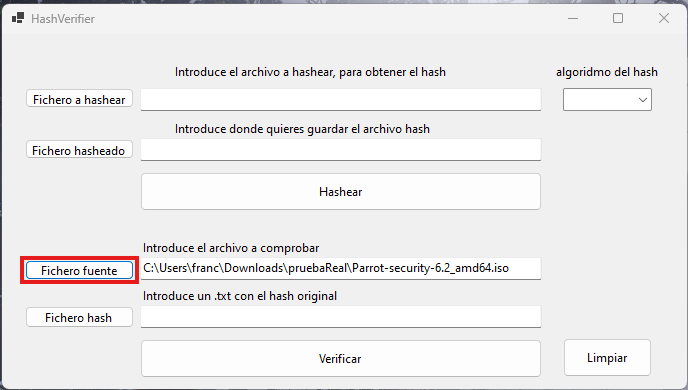
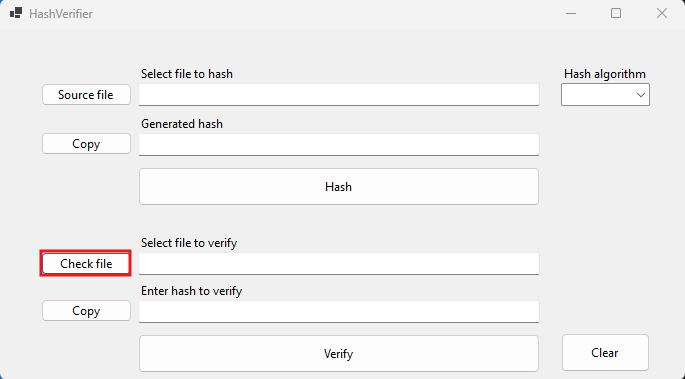
Readme actualizados

diff --git a/README.md b/README.md
@@ -1,15 +1,16 @@
-[🇪🇸 Español](README-ESP.md) | [🇬🇧 English](README.md)
+[🇪🇸 Español](docs/README-ESP.md) | [🇬🇧 English](README.md)
 # 🛠 HashVerifier
-HashVerifier is a Windows Forms application in C# that allows you to calculate and verify file hashes using various hash algorithms, with an intuitive and functional interface. It is ideal for verifying the integrity of files and ensuring that they have not been altered.
-![Main View of HashVerifier](img/imgPrincipal.png)
+HashVerifier is a Windows Forms application in C# that allows you to calculate and verify file hashes using several hash algorithms, with an intuitive and functional interface. It is ideal for verifying file integrity and ensuring they have not been altered.
+
+![HashVerifier Main View](img/imgPrincipal.png)
 
 ## 🚀 Description
-HashVerifier allows you to calculate and verify file hashes using several algorithms: **MD5, SHA-1, SHA-224, SHA-256, SHA-384**, and **SHA-512**.
+HashVerifier allows you to calculate and verify file hashes using several algorithms: **MD5, SHA-1, SHA-224, SHA-256, SHA-384** and **SHA-512**.
 
 ## ✨ Features
-- 📂 Select a file to calculate its hash.
-- 🔍 Choose the hash algorithm.
-- 💾 Save the calculated hash to a file.
+- 📂 File selection to calculate its hash.
+- 🔍 Selection of the hash algorithm.
+- 💾 Save the calculated hash into a file.
 - ✅ Verify if the calculated hash matches a given hash.
 - 👤 Simple and easy-to-use graphical user interface.
 
@@ -17,42 +18,67 @@ HashVerifier allows you to calculate and verify file hashes using several algori
 - .NET Framework 4.7.2 or higher
 
 ## ⚙ Installation
-1. Clone the repository: `git clone https://github.com/QUIENTRAEHIEL0/HashVerifier.git`
-2. Navigate to the project directory: `cd HashVerifier`
+1. Clone the repository:
+   ```bash
+   git clone https://github.com/QUIENTRAEHIEL0/HashVerifier.git
+   ```
+2. Navigate to the project directory: 
+   ```bash
+   cd HashVerifier
+   ```
 
 ### Build in Visual Studio
 1. Open the project file (`HashVerifier.sln`) in Visual Studio.
 2. Build the application by selecting **Build > Build Solution**.
-3. Run the application from the Visual Studio environment or through the generated `.exe` file in the `bin` folder.
+3. Run the application from the Visual Studio environment or using the `.exe` file generated in the `bin` folder.
 
 ### Build from the command line (using .NET CLI)
-1. Ensure you have the .NET SDK installed. You can verify it with: `dotnet --version`
-2. In the project directory, build the application with the following command: `dotnet build`
-3. To run the application after building it, use: `dotnet run --project HashVerifier` Or, if you prefer to run it from the compiled file, navigate to the `bin/Debug/net472` (or `Release` if you used the release build option) folder and run the corresponding `.exe` file.
+1. Make sure you have the .NET SDK installed. You can check with: 
+   ```bash
+   dotnet --version
+   ```
+2. In the project directory, build the application with the following command: 
+   ```bash
+   dotnet build
+   ```
+3. To run the application after building it, use: 
+   ```bash
+   dotnet run --project HashVerifier
+   ```
+   Or, if you prefer to run it from the compiled file, navigate to the folder `bin/Debug/net472` (or `Release` if you built it with the release option) and execute the corresponding `.exe` file.
 
-### 📋 Calculate a hash
-1. Select the file you want to hash using the **"File to Hash"** button.
-   ![Select File and Algorithm](img/imgExam1.png)
-2. Indicate the path where you want to save the hash using the **"Hash File"** button.
-   ![Select Hash File](img/imgExam2.png)
-3. Select the hash algorithm from the dropdown menu **"Hash Algorithm"**.
-   ![Select Hash Algorithm](img/imgAlgoritmo.png)
-4. Click on **"Hash"** to calculate the hash of the selected file.
-   ![Calculate Hash](img/imgCalcHash.png)
-5. The calculated hash is saved to the selected path.
+### 📋 Calculate a hash 
+1. Select the file you want to hash using the **"Source file"** button.
+![File and Algorithm Selection](img/imgExam1.png)
+
+2. Select the hash algorithm in the dropdown menu **"Hash algorithm"**.   
+![File and Algorithm Selection](img/imgAlgoritmo.png)
+   
+3. Click on **"Hash"** to calculate the hash of the selected file.
+![Hash Calculation](img/imgCalcHash.png)
+
+4. The calculated hash is displayed and copied to the clipboard.  
+![[imgHashCalc.png]]
 
 ### 📋 Verify a hash
-1. To verify a hash, select the source file (the file you want to calculate the hash for) using the **"Source File"** button.
-   ![Select Source File](img/imgFuente.png)
-2. To verify the hash, you must save the actual hash in a `.txt` file and indicate it using the **"Hash File"** button.
-   ![Select Hash File for Verification](img/imgHash.png)
-3. Select the hash algorithm from the dropdown menu **"Hash Algorithm"**.
-   ![Select Hash Algorithm for Verification](img/imgAlgoritmo2.png)
-4. To complete the verification, click on **"Verify,"** and a result will be shown in a popup window.
-   ![Hash Verification Result](img/imgHashVerifi.png)
+1. To verify a hash, select the source file (the file you want to calculate the hash from) with **"Check file"**.
+![Hash Verification](img/imgFuente.png) 
+
+2. To verify the hash, copy the hash into the `text box` (inside the red rectangle).
+![Hash Verification](img/imgHash.png) 
+
+3. Select the hash algorithm in the dropdown menu **"Hash algorithm"**.
+![File and Algorithm Selection](img/imgAlgoritmo2.png)
+
+4. To complete the verification, click on **"Verify"** and the result will be displayed in a pop-up window.
+![Hash Verification](img/imgHashVerifi.png)
+
+### 🗑 Clear
+- To clear the information, you can click the (`clear`) button.  
+![[imgClear.png]]
 
 ## 🤝 Contributing
-Contributions are welcome. If you wish to contribute, please follow these steps:
+Contributions are welcome. If you want to contribute, follow these steps:
 1. Fork the repository.
 2. Create a new branch (`git checkout -b feature/new-feature`).
 3. Make the necessary changes and commit (`git commit -am 'Add new feature'`).

diff --git a/docs/README-ESP.md b/docs/README-ESP.md
@@ -1,8 +1,8 @@
-[🇪🇸 Español](README-ESP.md) | [🇬🇧 English](README.md)
+[🇪🇸 Español](README-ESP.md) | [🇬🇧 English](../README.md)
 # 🛠 HashVerifier
 HashVerifier es una aplicación de Windows Forms en C# que permite calcular y verificar hashes de archivos utilizando varios algoritmos de hash, con una interfaz intuitiva y funcional. Es ideal para verificar la integridad de archivos y asegurarse de que no han sido alterados.
 
-![Vista Principal de HashVerifier](img/imgPrincipal.png)
+![Vista Principal de HashVerifier](../img/imgPrincipal.png)
 
 ## 🚀 Descripción
 HashVerifier permite calcular y verificar hashes de archivos utilizando varios algoritmos: **MD5, SHA-1, SHA-224, SHA-256, SHA-384** y **SHA-512**.
@@ -20,13 +20,13 @@ HashVerifier permite calcular y verificar hashes de archivos utilizando varios a
 ## ⚙ Instalación
 1. Clona el repositorio:
    ```bash
-   git clone https://github.com/FranciscoFdez05/HashVerifier.git
+   git clone https://github.com/QUIENTRAEHIEL0/HashVerifier.git
    ```
 3. Navega al directorio del proyecto: `cd HashVerifier`
 
 ### Compilación en Visual Studio
 1. Abre el archivo del proyecto (`HashVerifier.sln`) en Visual Studio.
-2. Compila la aplicación seleccionando **Compilar > Compilar Solución**.
+2. Compila la aplicación seleccionando **Build > Build Solution**.
 3. Ejecuta la aplicación desde el entorno de Visual Studio o mediante el archivo `.exe` generado en la carpeta `bin`.
 
 ### Compilación desde la línea de comandos (usando .NET CLI)
@@ -36,42 +36,34 @@ HashVerifier permite calcular y verificar hashes de archivos utilizando varios a
    O, si prefieres ejecutarla desde el archivo compilado, navega a la carpeta `bin/Debug/net472` (o `Release` si usaste la opción de compilación de release) y ejecuta el archivo `.exe` correspondiente.
 
 ### 📋 Calcular un hash 
-1. Selecciona el archivo que deseas hashear utilizando el botón **"Fichero a hashear"**.
+1. Selecciona el archivo que deseas hashear utilizando el botón **"Source file"**.
+![Selección de Archivo y Algoritmo](../img/imgExam1.png)
 
-   ![Selección de Archivo y Algoritmo](img/imgExam1.png)
-
-2. Indica la ruta donde quieres guardar el hash utiliza el botón **"Fichero hasheado"**.
-
-   ![Selección de Archivo y Algoritmo](img/imgExam2.png)
-
-3. Selecciona el algoritmo de hash en el menú desplegable **"algoritmo del hash"**.
+2. Selecciona el algoritmo de hash en el menú desplegable **"Hash algorithm"**.   
+![Selección de Archivo y Algoritmo](../img/imgAlgoritmo.png)
    
-   ![Selección de Archivo y Algoritmo](img/imgAlgoritmo.png)
-   
-4. Haz clic en **"Hashear"** para calcular el hash del archivo seleccionado.
+3. Haz clic en **"Hash"** para calcular el hash del archivo seleccionado.
+![Cálculo del Hash](../img/imgCalcHash.png)
 
-   ![Cálculo del Hash](img/imgCalcHash.png)
-
-5. El hash calculado se guarda en la ruta selecionada 
+4. El hash calculado se muestra y se copia en el portapapeles
+![[imgHashCalc.png]]
 
 ### 📋 Verificar un hash
-  
-1. Para verificar un hash, selecciona el fichero fuente (El fichero que desea calcualar el hash) **"Fichero fuente"**.
+1. Para verificar un hash, selecciona el fichero fuente (El fichero que desea calcular el hash) **"Check file"**.
+![Verificación de Hash](../img/imgFuente.png) 
 
-   ![Verificación de Hash](img/imgFuente.png) 
+2. Para verificar el hash, debes copiar el hash en el `text box` (dentro del rectangular rojo)
+![Verificación de Hash](../img/imgHash.png) 
 
-2. Para verificar el hash, debes guardar el hash real en un fichero.txt he indicarlo utilizando el botón **"Fichero hash"**.
+3. Selecciona el algoritmo del hash en el menú desplegable **"Hash algorithm"**.
+![Selección de Archivo y Algoritmo](../img/imgAlgoritmo2.png)
 
-   ![Verificación de Hash](img/imgHash.png) 
+4. Para terminar la verificación debes darle a **"Verify"** y te mostrara el resultado en una ventana emergente.
+![Verificación de Hash](../img/imgHashVerifi.png)
 
-3. Selecciona el algoritmo de hash en el menú desplegable **"algoritmo del hash"**.
-   
-   ![Selección de Archivo y Algoritmo](img/imgAlgoritmo2.png)
-
-4. Para terminar la verificacion debes darle a **"Verificar"** y te mostrara el resultado en una ventana emergente.
-
-   ![Verificación de Hash](img/imgHashVerifi.png)
-
+###  🗑 Limpiar
+- Para limpiar la information puedes pulsar el el botón (`clear`)
+![[imgClear.png]]
 ## 🤝 Contribuir
 Las contribuciones son bienvenidas. Si deseas contribuir, sigue estos pasos:
 1. Haz un fork del repositorio.
@@ -82,4 +74,4 @@ Las contribuciones son bienvenidas. Si deseas contribuir, sigue estos pasos:
 
 ---
 
-**Developed with ❤ by [Francisco](https://github.com/FARLOPITEC)**
+**Developed with ❤ by [Francisco](https://github.com/FranciscoFdez05)**
